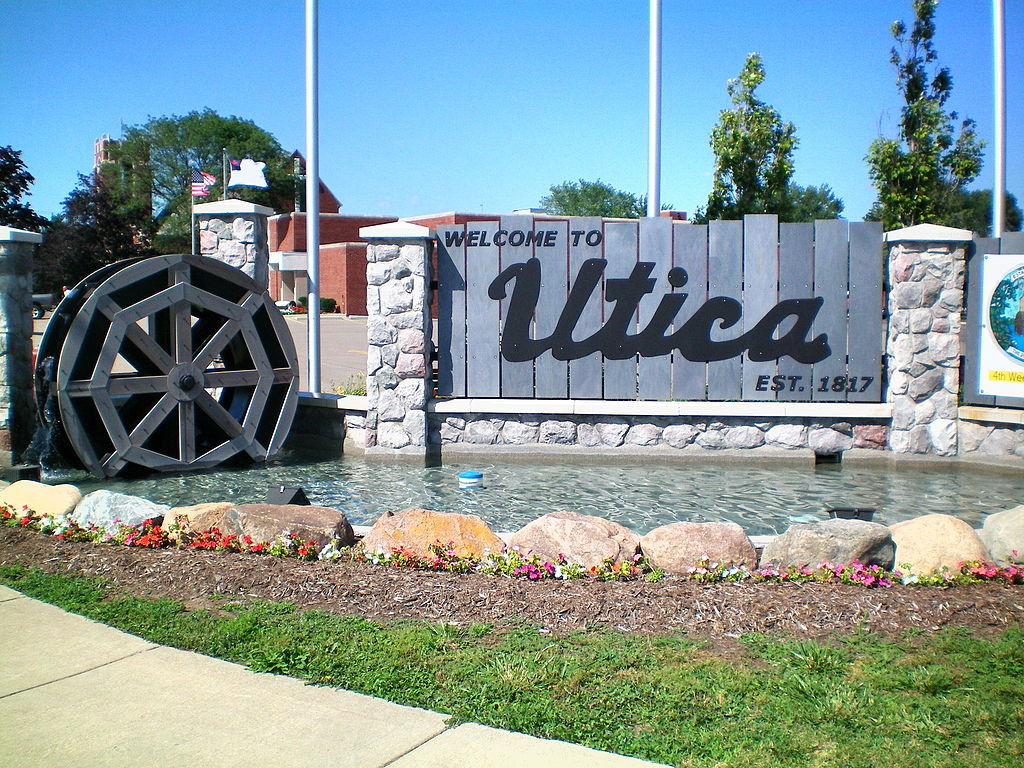
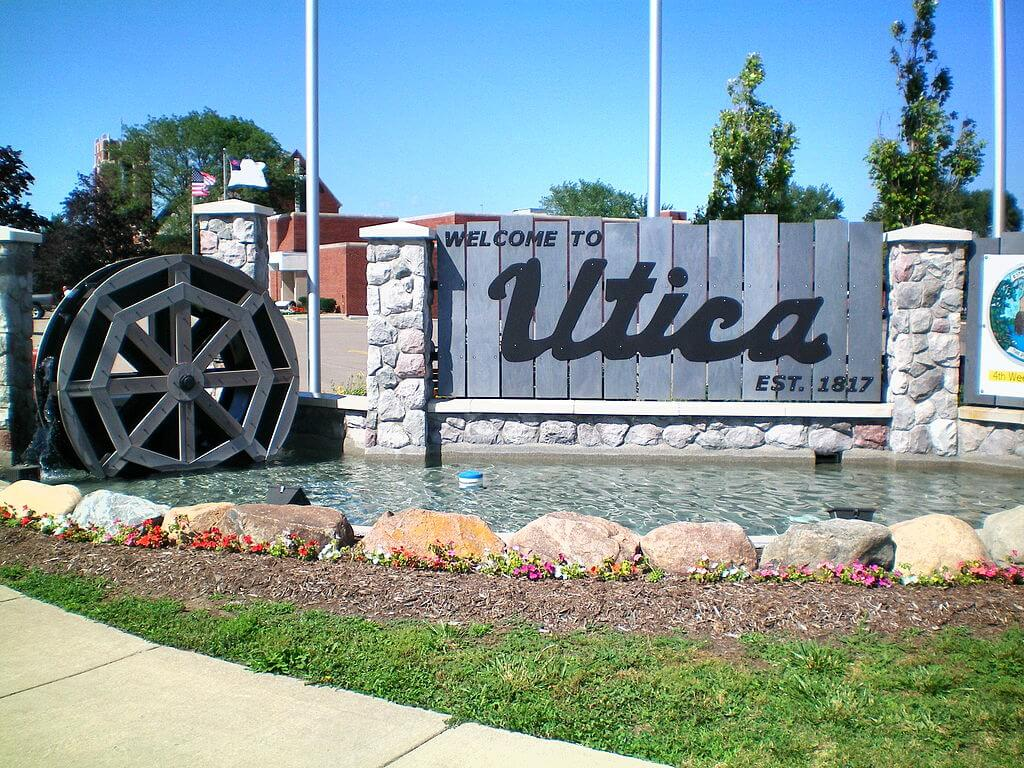
img update and more

diff --git a/lesson3/styles/small.css b/lesson3/styles/small.css
@@ -1,8 +1,22 @@
+@import url('https://fonts.googleapis.com/css2?family=Josefin+Sans&family=Noto+Sans:wght@200&family=Poppins:wght@600&family=Righteous&family=Rowdies:wght@300&display=swap');
+@import url('https://fonts.googleapis.com/css2?family=Josefin+Sans&family=Lora&family=Noto+Sans:wght@200&family=Poppins:wght@600&family=Righteous&family=Rowdies:wght@300&display=swap');
+@import url('https://fonts.googleapis.com/css2?family=Josefin+Sans&family=Lora&family=Noto+Sans:wght@200&family=Poppins:wght@600&family=Righteous&family=Rowdies:wght@300&family=Sofia+Sans&display=swap');
+
 header {
     background-color: #003049;
     display: grid;
     grid-template-columns: 150px auto;
 }
+
+h2 {
+    font-family: 'Sofia Sans', sans-serif;
+}
+p {
+    font-size: 18px;
+    font-family: 'Lora', sans-serif;
+    
+}
+/*-----------------------------------------------------------------Naviation -------------------------------------------------------------*/
 nav {
     display: flex;
     justify-content: space-around;
@@ -14,12 +28,12 @@ nav a {
     text-align: center;
     text-decoration: none;
     padding: 30px;
-    font-size: 18px;
+    font-size: 20px;
 }
 nav a:hover {
     background-color: #D62626;
 }
-
+/*------------------------------------------------------------------------Index & target-audience -----------------------------------------------*/
 .icon {
     width: 80px;
     padding-top: 10px;
@@ -59,7 +73,7 @@ nav a:hover {
     grid-column: 1/4;
     display: grid;
     margin: 15px;
-    justify-items: center;
+    justify-items: left;
     
 }
 .welcome {
@@ -77,6 +91,7 @@ nav a:hover {
     border-width: 3px;
     margin: 15px;
     border-radius: 15px;
+    justify-self: end;
 }
 .sofiapic {
     grid-column: 1/2;
@@ -123,13 +138,130 @@ nav a:hover {
     height: 500px;
 }
 .local-shop {
+    grid-column: 1/2;
     height: 250px;
-    width: 250px;
+    border: solid black;
+    border-width: 3px;
+    margin: 15px;
+    border-radius: 15px;
+}
+.txt21 {
+    grid-column: 2/5;
+    display: grid;
+    margin: 15px;
+    justify-items: center;
+    
+}
+.txt21 h2 {
+    text-align: center;
+    border-bottom: solid #003049;
+    border-width: 2px;
+    width: 450px;
 }
 .counsel-room {
+    grid-column: 4/5;
     height: 250px;
-    width: 250px;
+    border: solid black;
+    border-width: 3px;
+    margin: 15px;
+    border-radius: 15px;
+    display: grid;
+    align-self: center;
 }
+.row-txt-img1 {
+    display: grid;
+    grid-template-columns: 1fr 1fr 1fr 1fr;
+    margin: 15px;
+    height: 400px;
+    background-color: #EAE2B7;
+    border: solid #F77F00;
+    border-width: 3px;
+    border-radius: 5px;
+}
+/*------------------------------------------------------------Design Page ----------------------------------------------------------------------------*/
+.content {
+    display: grid;
+    grid-template-columns: 1fr 1fr 1fr 1fr 1fr;
+    grid-template-rows: 1fr 1fr ;
+    justify-content: center;
+    gap: 10px 10px;
+    margin: 15px;
+}
+.content h2 {
+    text-align: center;
+    border-bottom: solid black;
+    border-width: 2px;
+    align-self: center;
+}
+.content p {
+    text-align: center;
+    margin: 15px;
+}
+.font-card1 {
+    grid-column: 1/3;
+    grid-row: 1/2;
+    border: solid black;
+    border-width: 3px;
+    border-radius: 15px;
+    font-family: 'Sofia Sans', sans-serif;   
+}
+.font-card1 p {
+    font-family: 'Sofia Sans', sans-serif;   
+}
+
+.font-card2 {
+    grid-column: 4/6;
+    grid-row: 1/2;
+    border: solid black;
+    border-width: 3px;
+    border-radius: 15px;
+}
+.font-card2 h2 {
+    font-family: 'Lora', sans-serif;
+    
+}
+.color-card1 {
+    grid-row: 2/3;
+    border: solid black;
+    border-width: 3px;
+    border-radius: 15px;
+    background-color: #003049;
+    color: white;
+
+}
+.color-card2 {
+    grid-row: 2/3;
+    border: solid black;
+    border-width: 3px;
+    border-radius: 15px;
+    background-color: #D62626;
+    color: white;
+
+}
+.color-card3 {
+    grid-row: 2/3;
+    border: solid black;
+    border-width: 3px;
+    border-radius: 15px;
+    background-color: #F77F00;
+    color: white;
+
+}
+.color-cardb4 {
+    grid-row: 2/3;
+    border: solid black;
+    border-width: 3px;
+    border-radius: 15px;
+    background-color: #FCBF49;
+}
+.color-cardb5 {
+    grid-row: 2/3;
+    border: solid black;
+    border-width: 3px;
+    border-radius: 15px;
+    background-color: #EAE2B7;
+}
+
 /*----------------------------------------------------------------------FOOTER---------------------------------------------------------*/
 footer {
     box-shadow: 10px 5px 5px gray;
@@ -144,4 +276,14 @@ footer, footer a{
 }
 footer p {
     font-size: 17px;
+}
+
+@media screen and (max-width: 900px) {
+    nav, footer {
+        flex-direction: column;
+    }
+    nav a {
+        display: block;
+        padding: 15px;
+    }
 }

diff --git a/lesson3/target-audience.html b/lesson3/target-audience.html
@@ -20,17 +20,17 @@
         </nav>
     </header>
     <main>
-       <section class="why-commerce">
-        <img class="local-shop" src="images/shop-local.jpg" alt="Shop loacl sign">
-        <div>
-            <h2>Why Join a Chamber of Commerce?</h2>
-            <p>Joining a chamber of commerce can provide many benefits for a business, including networking opportunities, 
+        <section class="row-img-txt">
+            <img class="local-shop" src="images/shop-local.jpg" alt="Shop loacl sign">
+            <div class="txt21">
+                <h2>Why Join a Chamber of Commerce?</h2>
+                <p>Joining a chamber of commerce can provide many benefits for a business, including networking opportunities, 
                 access to resources and information, marketing and promotional support, and advocacy for issues that affect the business community.
                  Additionally, many chambers offer member discounts and other incentives,and can serve as a valuable source of information and support 
                  for small business owners.
             </p>
-        </div>
-       </section>
+            </div>
+        </section>
 
        <section class="row-txt-img">
         <div class="txt1">
@@ -46,7 +46,7 @@
     </section>
 
     <section class="row-img-txt">
-        <img class="sofiapic" src="images/persona-sofia.jpg" alt="Picture of a buisness woman">
+        <img class="sofiapic" src="images/persona-sofia1.jpg" alt="Picture of a buisness woman">
         <div class="txt2">
             <h2>Sofia</h2>
             <p>Sofia is a small business owner in her mid-30s. She owns a local boutique clothing store in the downtown area and has been in business for 5 years. 
@@ -56,18 +56,18 @@
         </div>
     </section>
 
-
-    <Section>
-        <img class="counsel-room" src="images/counsel.jpg" alt="counsel room">
-        <div class="scenerio-txt">
-            <h2></h2>
+    <section class="row-txt-img1">
+        <div class="txt1">
+            <h2>5 Example Scenerios</h2>
             <p>A small business owner looking for information on local networking events and opportunities to connect with other business owners in the community.</p>
             <p>A job seeker searching for information on job fairs and job listings in their area.</p>
             <p>A new resident looking for information on community events and resources, such as schools and local government services.</p>
             <p>An investor researching potential business opportunities in a specific area.</p>
             <p>A tourist searching for information on local attractions, restaurants and accommodations.</p>
         </div>
-    </Section>
+        <img class="counsel-room" src="images/counsel.jpg" alt="counsel room">
+    </section>
+
     </main>
     <footer>
         <p> &copy; <span class ="currentyear"></span> &star; Taylor Shirley &star; Idaho &star;</p>

diff --git a/lesson3/design.html b/lesson3/design.html
@@ -20,7 +20,40 @@
         </nav>
     </header>
     <main>
-
+        <div class="content">
+            <div class="font-card1">
+                <h2>Title Font</h2>
+                <p>
+                    A good title font should be easily readable, have good legibility and be appropriate for the purpose and tone of the document. 
+                    It's also good to consider the context, such as a formal or informal document, and use the font accordingly.
+                </p>
+            </div>
+            <div class="font-card2">
+                <h2>Paragraph Font</h2>
+                <p>
+                    A good paragraph font should be easily readable, have good legibility and be appropriate for the purpose and tone of the document. 
+                    It is important to choose a font that is easy to read in large blocks of text, and also appropriate for the context, 
+                    such as a formal or informal document. It is recommended to use a font size of 10 to 12 points for the body text to make it easy to 
+                    read.
+                </p>
+            </div>
+            <div class="color-card1">
+                <h2>#003049</h2>
+            </div>
+            <div class="color-card2">
+                <h2>#D62828</h2>
+            </div>
+            <div class="color-card3">
+                <h2>#F77F00</h2>
+            </div>
+            <div class="color-cardb4">
+                <h2>#FCBF49</h2>
+            </div>
+            <div class="color-cardb5">
+                <h2>#EAE2B7</h2>
+            </div>
+        </div>
+        
     </main>
     <footer>
         <p> &copy; <span class ="currentyear"></span> &star; Taylor Shirley &star; Idaho &star;</p>

diff --git a/lesson3/index.html b/lesson3/index.html
@@ -26,7 +26,7 @@
                 <p>Organization's Name: Utica Chamber of Commerce</p>
                 <p>Organization's Domian: uticachamber.com</p>
             </div>
-            <img class="welcome" src="images/uticamiwelcome.jpg" alt="Utica sign">
+            <img class="welcome" src="images/uticamiwelcome1.jpg" alt="Utica sign">
         </section>
 
         <section class="row-img-txt">
